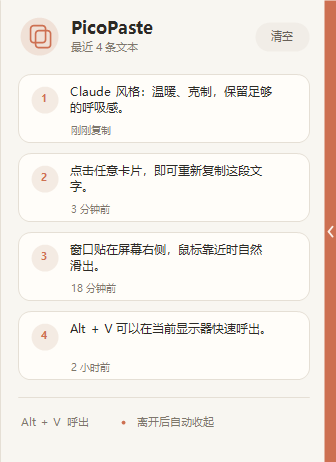
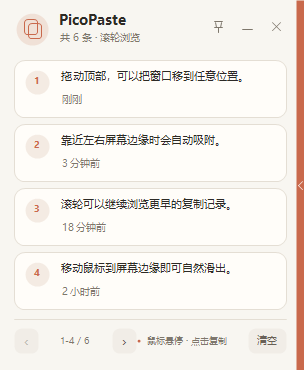
feat: make PicoPaste mouse-first and translucent

diff --git a/src/Program.cs b/src/Program.cs
@@ -16,8 +16,8 @@ using Timer = System.Windows.Forms.Timer;
 [assembly: AssemblyTitle("PicoPaste")]
 [assembly: AssemblyDescription("A small edge-docked clipboard for Windows")]
 [assembly: AssemblyProduct("PicoPaste")]
-[assembly: AssemblyVersion("0.3.0.0")]
-[assembly: AssemblyFileVersion("0.3.0.0")]
+[assembly: AssemblyVersion("0.4.0.0")]
+[assembly: AssemblyFileVersion("0.4.0.0")]
 
 namespace PicoPaste
 {
@@ -98,10 +98,10 @@ namespace PicoPaste
         {
             return new UserPreferences
             {
-                SettingsVersion = 2,
+                SettingsVersion = 3,
                 DockSide = "Right",
                 TopRatio = 0.5,
-                Translucent = false,
+                Translucent = true,
                 Pinned = false,
                 AlwaysOnTop = true,
                 PerformanceMode = true
@@ -149,6 +149,13 @@ namespace PicoPaste
                 preferences.SettingsVersion = 2;
                 preferences.PerformanceMode = true;
                 preferences.Translucent = false;
+                migrated = true;
+            }
+            if (preferences.SettingsVersion < 3)
+            {
+                preferences.SettingsVersion = 3;
+                preferences.DockSide = "Right";
+                preferences.Translucent = true;
                 migrated = true;
             }
             if (preferences.DockSide != "Left" && preferences.DockSide != "Right")
@@ -220,7 +227,7 @@ namespace PicoPaste
         private const int WmHotkey = 0x0312;
         private const int WmDpiChanged = 0x02E0;
         private const int HotkeyId = 0x5043;
-        private const uint ModAlt = 0x0001;
+        private const uint ModShift = 0x0004;
         private const uint ModNoRepeat = 0x4000;
 
         private readonly bool _previewMode;
@@ -343,7 +350,7 @@ namespace PicoPaste
                 _entryMenu = BuildEntryMenu();
                 _trayIcon = new NotifyIcon();
                 _trayIcon.Icon = CreateTrayIcon();
-                _trayIcon.Text = "PicoPaste · Alt+V 呼出";
+                _trayIcon.Text = "PicoPaste · 移到屏幕边缘呼出";
                 _trayIcon.ContextMenuStrip = _trayMenu;
                 _trayIcon.Visible = true;
                 _trayIcon.DoubleClick += delegate { ExpandOnCursorScreen(true); };
@@ -386,9 +393,9 @@ namespace PicoPaste
             entries.Add(new ClipEntry { Text = "拖动顶部，可以把窗口移到任意位置。", CreatedAt = DateTime.Now });
             entries.Add(new ClipEntry { Text = "靠近左右屏幕边缘时会自动吸附。", CreatedAt = DateTime.Now.AddMinutes(-3) });
             entries.Add(new ClipEntry { Text = "滚轮可以继续浏览更早的复制记录。", CreatedAt = DateTime.Now.AddMinutes(-18) });
-            entries.Add(new ClipEntry { Text = "按数字 1 到 4，直接复制当前四条。", CreatedAt = DateTime.Now.AddHours(-2) });
+            entries.Add(new ClipEntry { Text = "移动鼠标到屏幕边缘即可自然滑出。", CreatedAt = DateTime.Now.AddHours(-2) });
             entries.Add(new ClipEntry { Text = "右键卡片可以置顶或者删除这一条。", CreatedAt = DateTime.Now.AddHours(-5) });
-            entries.Add(new ClipEntry { Text = "Alt + V 可以快速呼出或收起。", CreatedAt = DateTime.Now.AddDays(-1) });
+            entries.Add(new ClipEntry { Text = "Shift + P 也可以快速呼出或收起。", CreatedAt = DateTime.Now.AddDays(-1) });
             return entries;
         }
 
@@ -420,8 +427,8 @@ namespace PicoPaste
             ApplyDpiScale();
             if (_previewMode) return;
             _clipboardListenerAttached = AddClipboardFormatListener(Handle);
-            _hotkeyAttached = RegisterHotKey(Handle, HotkeyId, ModAlt | ModNoRepeat, (uint)Keys.V);
-            if (!_hotkeyAttached) SetStatus("Alt+V 已被其他程序占用", Color.FromArgb(176, 92, 68));
+            _hotkeyAttached = RegisterHotKey(Handle, HotkeyId, ModShift | ModNoRepeat, (uint)Keys.P);
+            if (!_hotkeyAttached) SetStatus("Shift+P 已被其他程序占用", Color.FromArgb(176, 92, 68));
         }
 
         protected override void OnHandleDestroyed(EventArgs e)
@@ -705,7 +712,7 @@ namespace PicoPaste
 
             using (Font hintFont = ScaledFont("Microsoft YaHei UI", 7.1f, FontStyle.Regular))
             using (SolidBrush hintBrush = new SolidBrush(muted))
-                g.DrawString("滚轮浏览 · 1-4 复制", hintFont, hintBrush, 145, 334);
+                g.DrawString("鼠标悬停 · 点击复制", hintFont, hintBrush, 145, 334);
             using (SolidBrush dot = new SolidBrush(accent)) g.FillEllipse(dot, 137, 339, 3, 3);
         }
 
@@ -930,14 +937,6 @@ namespace PicoPaste
                 return;
             }
 
-            int slot = -1;
-            if (e.KeyCode >= Keys.D1 && e.KeyCode <= Keys.D4) slot = e.KeyCode - Keys.D1;
-            else if (e.KeyCode >= Keys.NumPad1 && e.KeyCode <= Keys.NumPad4) slot = e.KeyCode - Keys.NumPad1;
-            if (slot >= 0)
-            {
-                CopyEntryAt(_pageOffset + slot, 0);
-                e.Handled = true;
-            }
         }
 
         private string HitControl(Point logical)
@@ -1055,7 +1054,7 @@ namespace PicoPaste
                 _minimizedToTray = false;
             }
 
-            if (_trayIcon != null) _trayIcon.Text = "PicoPaste · Alt+V 呼出";
+            if (_trayIcon != null) _trayIcon.Text = "PicoPaste · 移到屏幕边缘呼出";
 
             if (_dockEdge == DockEdge.Floating)
             {
@@ -1100,7 +1099,7 @@ namespace PicoPaste
             _minimizedToTray = true;
             _expanded = false;
             Hide();
-            if (_trayIcon != null) _trayIcon.Text = "PicoPaste · 已最小化 · Alt+V 呼出";
+            if (_trayIcon != null) _trayIcon.Text = "PicoPaste · 已最小化 · Shift+P 呼出";
         }
 
         private void FinishDrag()
@@ -1249,10 +1248,10 @@ namespace PicoPaste
         private void UpdateOpacity()
         {
             if (_previewMode) return;
-            if (_preferences.PerformanceMode || !_preferences.Translucent) Opacity = 1.0;
-            else if (!_expanded) Opacity = 0.78;
+            if (!_preferences.Translucent) Opacity = 1.0;
+            else if (!_expanded) Opacity = 0.86;
             else if (_dockEdge == DockEdge.Floating) Opacity = 0.97;
-            else Opacity = 0.94;
+            else Opacity = 0.95;
         }
 
         private void CaptureClipboard(int attempt)
@@ -1427,7 +1426,6 @@ namespace PicoPaste
         private void ToggleTranslucency()
         {
             _preferences.Translucent = !_preferences.Translucent;
-            if (_preferences.Translucent) _preferences.PerformanceMode = false;
             LocalStore.SavePreferences(_preferences);
             RefreshMenuChecks();
             UpdateOpacity();
@@ -1436,7 +1434,6 @@ namespace PicoPaste
         private void TogglePerformanceMode()
         {
             _preferences.PerformanceMode = !_preferences.PerformanceMode;
-            if (_preferences.PerformanceMode) _preferences.Translucent = false;
             LocalStore.SavePreferences(_preferences);
             RefreshMenuChecks();
             UpdateOpacity();

diff --git a/README.md b/README.md
@@ -13,12 +13,13 @@
 ## 能做什么
 
 - 吸附在屏幕左侧或右侧，平时自动藏起来
-- 鼠标移到屏幕边缘就会滑出，离开后自动收起
+- 默认贴在屏幕右侧，鼠标移到边缘就会滑出
+- 鼠标离开后自动收起，主要操作都可以只用鼠标完成
 - 保存最近 40 条文本，一次显示 4 条
 - 点击卡片立即复制，并给出轻量反馈
-- `Alt + V` 快速呼出或收起
-- 数字键 `1`～`4` 复制当前页面对应内容
+- `Shift + P` 也可以快速呼出或收起
 - 支持拖动、跨屏、置顶、锁定展开和托盘运行
+- 默认使用轻微半透明效果
 
 ## 关于性能
 
